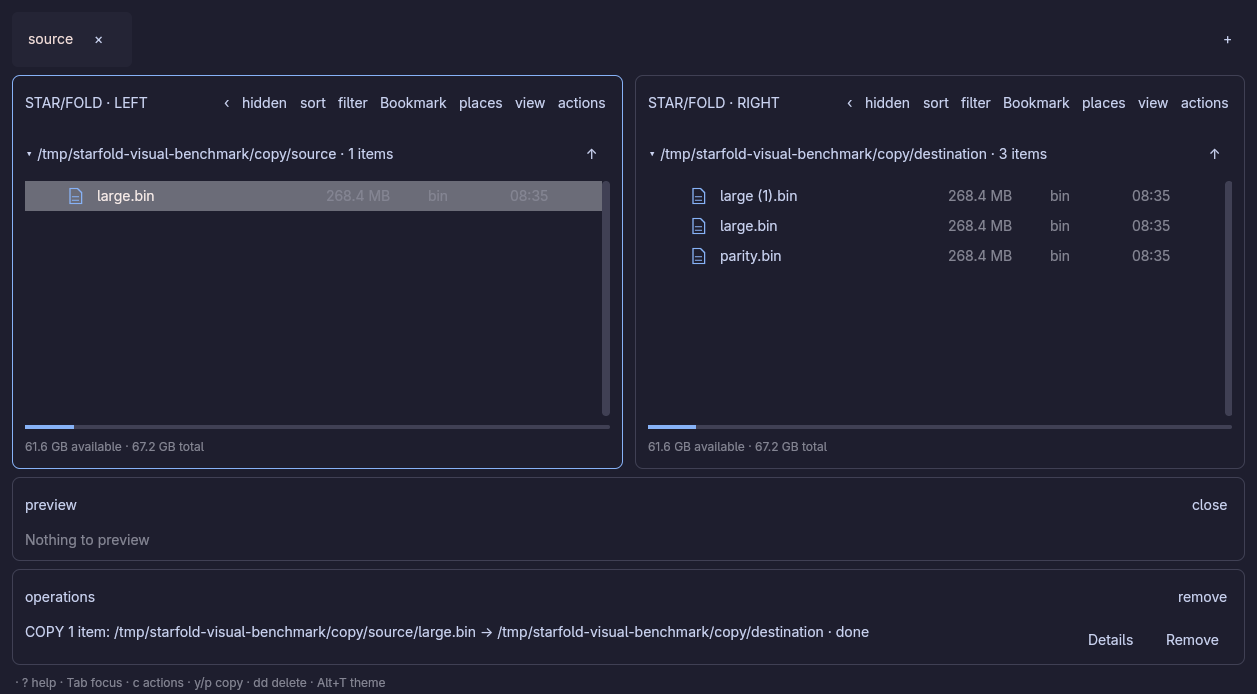
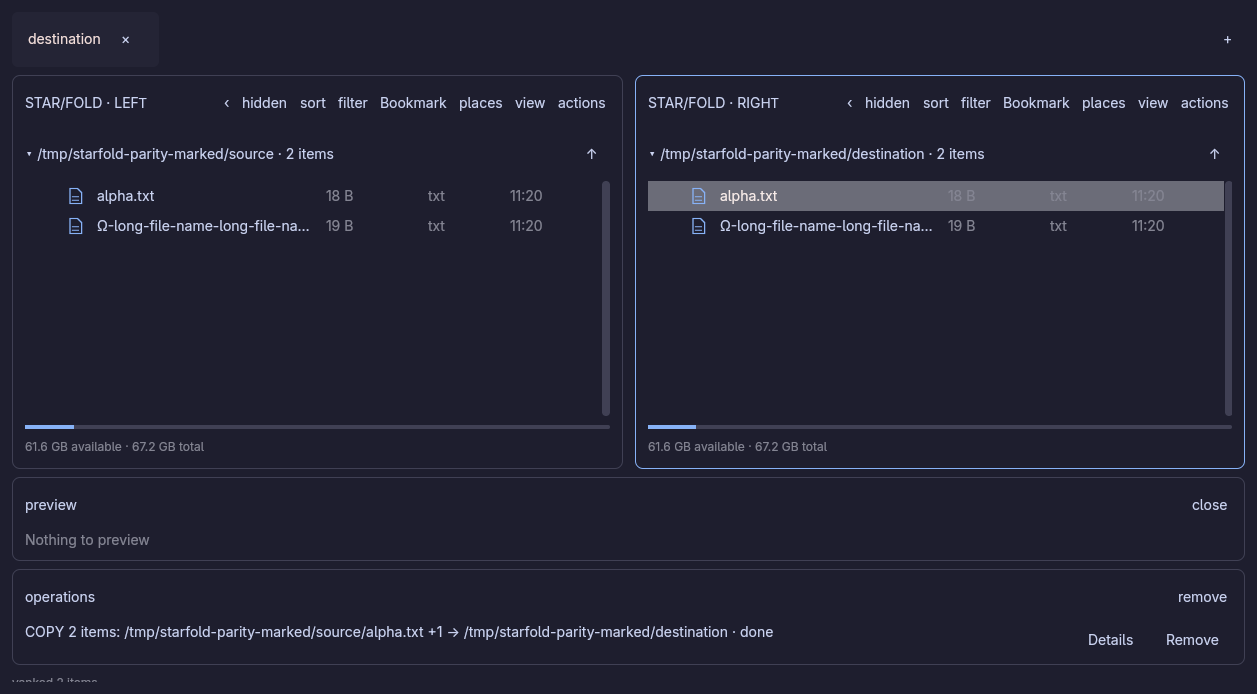
Keep native labels within one line across pane widths

diff --git a/src/ui/app/desktop.rs b/src/ui/app/desktop.rs
@@ -316,9 +316,10 @@ impl Desktop {
             .child(
                 div()
                     .flex_1()
-                    .min_w(px(0.))
+                    .min_w(px(110.))
+                    .overflow_hidden()
                     .text_ellipsis()
-                    .whitespace_nowrap()
+                    .line_clamp(1)
                     .child(if module == ModuleId::Stack {
                         if self.app.commander {
                             if pane == 0 {
@@ -421,7 +422,7 @@ impl Desktop {
                             .py_1()
                             .min_w(px(0.))
                             .text_ellipsis()
-                            .whitespace_nowrap()
+                            .line_clamp(1)
                             .when(row.selected && enabled, |item| {
                                 item.bg(rgb24(tokens.selected))
                             })
@@ -908,7 +909,7 @@ impl Desktop {
                                     menu_item(label, tokens)
                                         .min_w(px(0.))
                                         .text_ellipsis()
-                                        .whitespace_nowrap()
+                                        .line_clamp(1)
                                         .when(index == selected, |row| {
                                             row.bg(rgb24(tokens.selected))
                                         })
@@ -1099,7 +1100,7 @@ impl Desktop {
                                 menu_item(label, tokens)
                                     .min_w(px(0.))
                                     .text_ellipsis()
-                                    .whitespace_nowrap()
+                                    .line_clamp(1)
                                     .when(index == selected, |row| row.bg(rgb24(tokens.selected)))
                                     .id(("place-item", index))
                                     .on_mouse_down(
@@ -1299,7 +1300,7 @@ impl Desktop {
                                 menu_item(format!("{} · {}", item.label, item.location), tokens)
                                     .min_w(px(0.))
                                     .text_ellipsis()
-                                    .whitespace_nowrap()
+                                    .line_clamp(1)
                                     .when(index == selected, |row| row.bg(rgb24(tokens.selected)))
                                     .id(("tab-picker-row", index))
                                     .on_click(cx.listener(move |this, _, _, cx| {
@@ -1666,7 +1667,7 @@ impl Desktop {
                                     .flex_1()
                                     .min_w(px(0.))
                                     .overflow_hidden()
-                                    .whitespace_nowrap()
+                                    .line_clamp(1)
                                     .text_ellipsis()
                                     .tooltip({
                                         let text = row.name.clone();
@@ -1678,7 +1679,13 @@ impl Desktop {
                                             .into()
                                         }
                                     })
-                                    .child(row.name),
+                                    .child(
+                                        div()
+                                            .w_full()
+                                            .line_clamp(1)
+                                            .text_ellipsis()
+                                            .child(row.name),
+                                    ),
                             )
                             .child(
                                 div()
@@ -1806,7 +1813,7 @@ impl Desktop {
                                 div()
                                     .flex_1()
                                     .min_w(px(0.))
-                                    .whitespace_nowrap()
+                                    .line_clamp(1)
                                     .text_ellipsis()
                                     .child(label),
                             )
@@ -1814,7 +1821,7 @@ impl Desktop {
                                 div()
                                     .max_w(px(240.))
                                     .min_w(px(0.))
-                                    .whitespace_nowrap()
+                                    .line_clamp(1)
                                     .text_ellipsis()
                                     .child(match level.count {
                                         Some(count) => format!("{count} items · {context}"),
@@ -1841,7 +1848,7 @@ impl Desktop {
                             .flex_1()
                             .min_w(px(0.))
                             .text_sm()
-                            .whitespace_nowrap()
+                            .line_clamp(1)
                             .text_ellipsis()
                             .child(format!(
                                 "▾ {} · {} items{}",
@@ -2234,7 +2241,7 @@ impl Render for Desktop {
                     div()
                         .text_color(rgb24(tokens.muted))
                         .text_ellipsis()
-                        .whitespace_nowrap()
+                        .line_clamp(1)
                         .child(
                             self.app
                                 .view
@@ -2403,7 +2410,7 @@ impl Render for Desktop {
                                 div()
                                     .flex()
                                     .gap_2()
-                                    .child(div().flex_1().min_w(px(0.)).text_ellipsis().whitespace_nowrap().child(format!(
+                                    .child(div().flex_1().min_w(px(0.)).text_ellipsis().line_clamp(1).child(format!(
                                         "{} · {}",
                                         row.title,
                                         row.status
@@ -2436,7 +2443,7 @@ impl Render for Desktop {
                                     ),
                             )
                             .child(meter(*fractions.get(&id).unwrap_or(&0.), tokens))
-                            .children(row.bar.map(|bar| div().text_xs().whitespace_nowrap().text_ellipsis().child(bar)))
+                            .children(row.bar.map(|bar| div().text_xs().line_clamp(1).text_ellipsis().child(bar)))
                     }))),
             );
         }
@@ -2489,7 +2496,7 @@ impl Render for Desktop {
             div()
                 .text_xs()
                 .min_w(px(0.))
-                .whitespace_nowrap()
+                .line_clamp(1)
                 .text_ellipsis()
                 .text_color(rgb24(tokens.muted))
                 .child(note),

diff --git a/docs/graphical-parity.md b/docs/graphical-parity.md
@@ -8,7 +8,7 @@ or terminal emulator has been tested.
 | Area | Native presentation | Verification |
 | --- | --- | --- |
 | Fold navigation | Retained folded levels, expanded active frame, back/forward, home/root, cursor/scroll restoration | Shared stack/session tests; actual large-directory navigation |
-| Commander | Independent stacks, marks, filters and sort; only browser splits | Shared per-pane regression tests; actual native copy between panes |
+| Commander | Independent stacks, marks, filters and sort; only browser splits | Shared per-pane regression tests; actual native copy between panes, including two marked paths and a long Unicode filename |
 | File rows | Fixed height, ellipsis, full-name tooltip, cached paths and shared colors | Actual 100,000-entry window and scrolling; row-cache tests |
 | Tabs | Padded filled tabs, close/new, context actions, rename, duplicate, reorder, reopen | Shared tab tests; actual native menu, rename and session persistence |
 | File actions | Open, Preview, Edit, Mark, Copy, Move, Rename, Copy path, New, Archive, Delete, Tabs, Recovery | Shared captured-target/controller tests; native menu renders same action tree |
